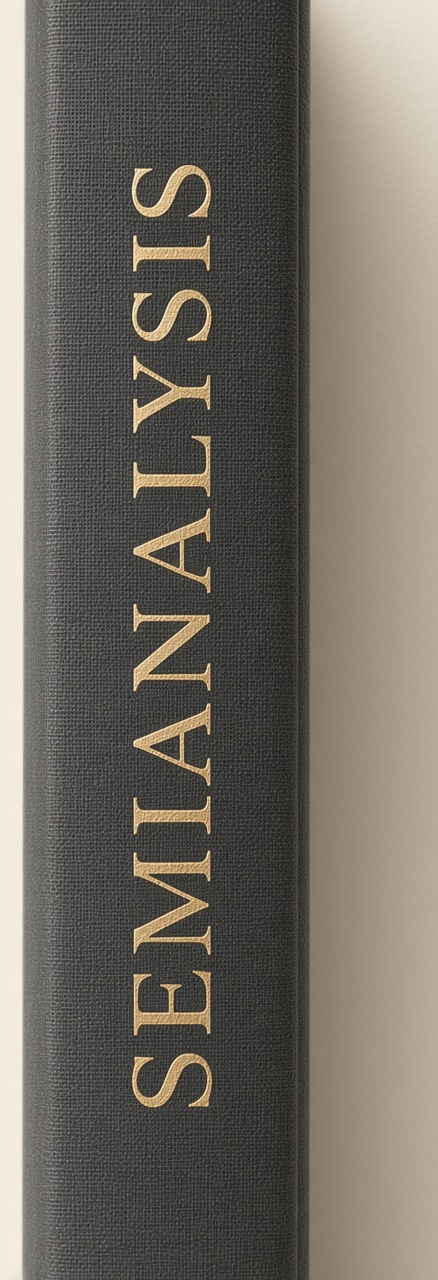
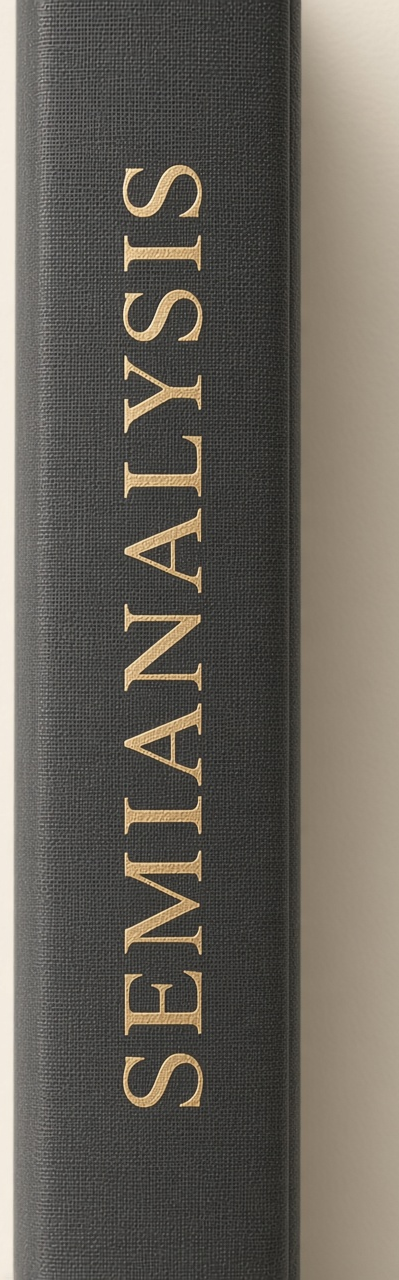
fix(shelf): tighter photo crops on book spines

diff --git a/aileena-new/app/blog/watch-listening-shelf/watch-shelf.css b/aileena-new/app/blog/watch-listening-shelf/watch-shelf.css
@@ -169,7 +169,7 @@
 }
 
 .watch-shelf-item.is-spine {
-  max-width: 44px;
+  max-width: 56px;
 }
 
 .watch-obj-cover.is-spine {
